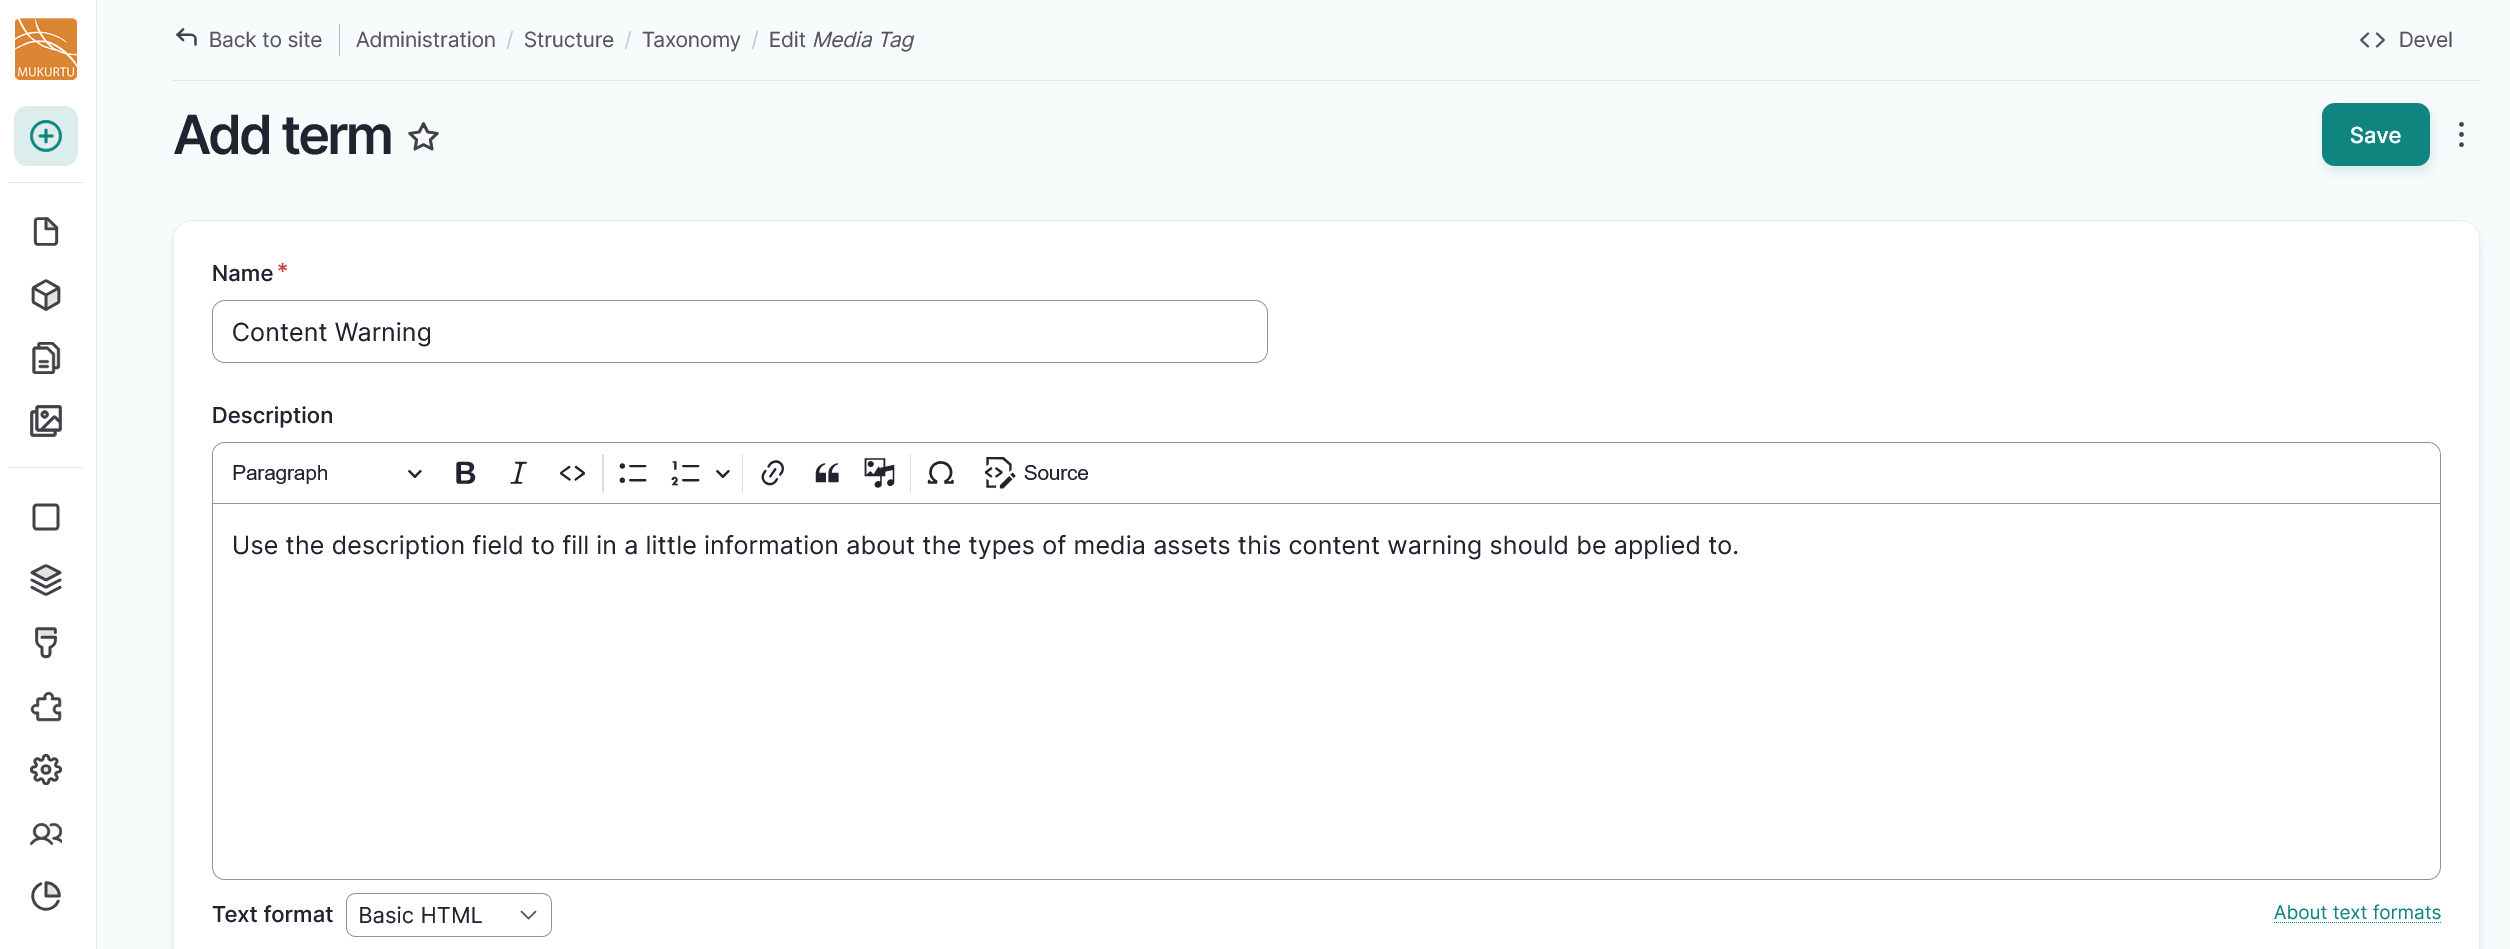
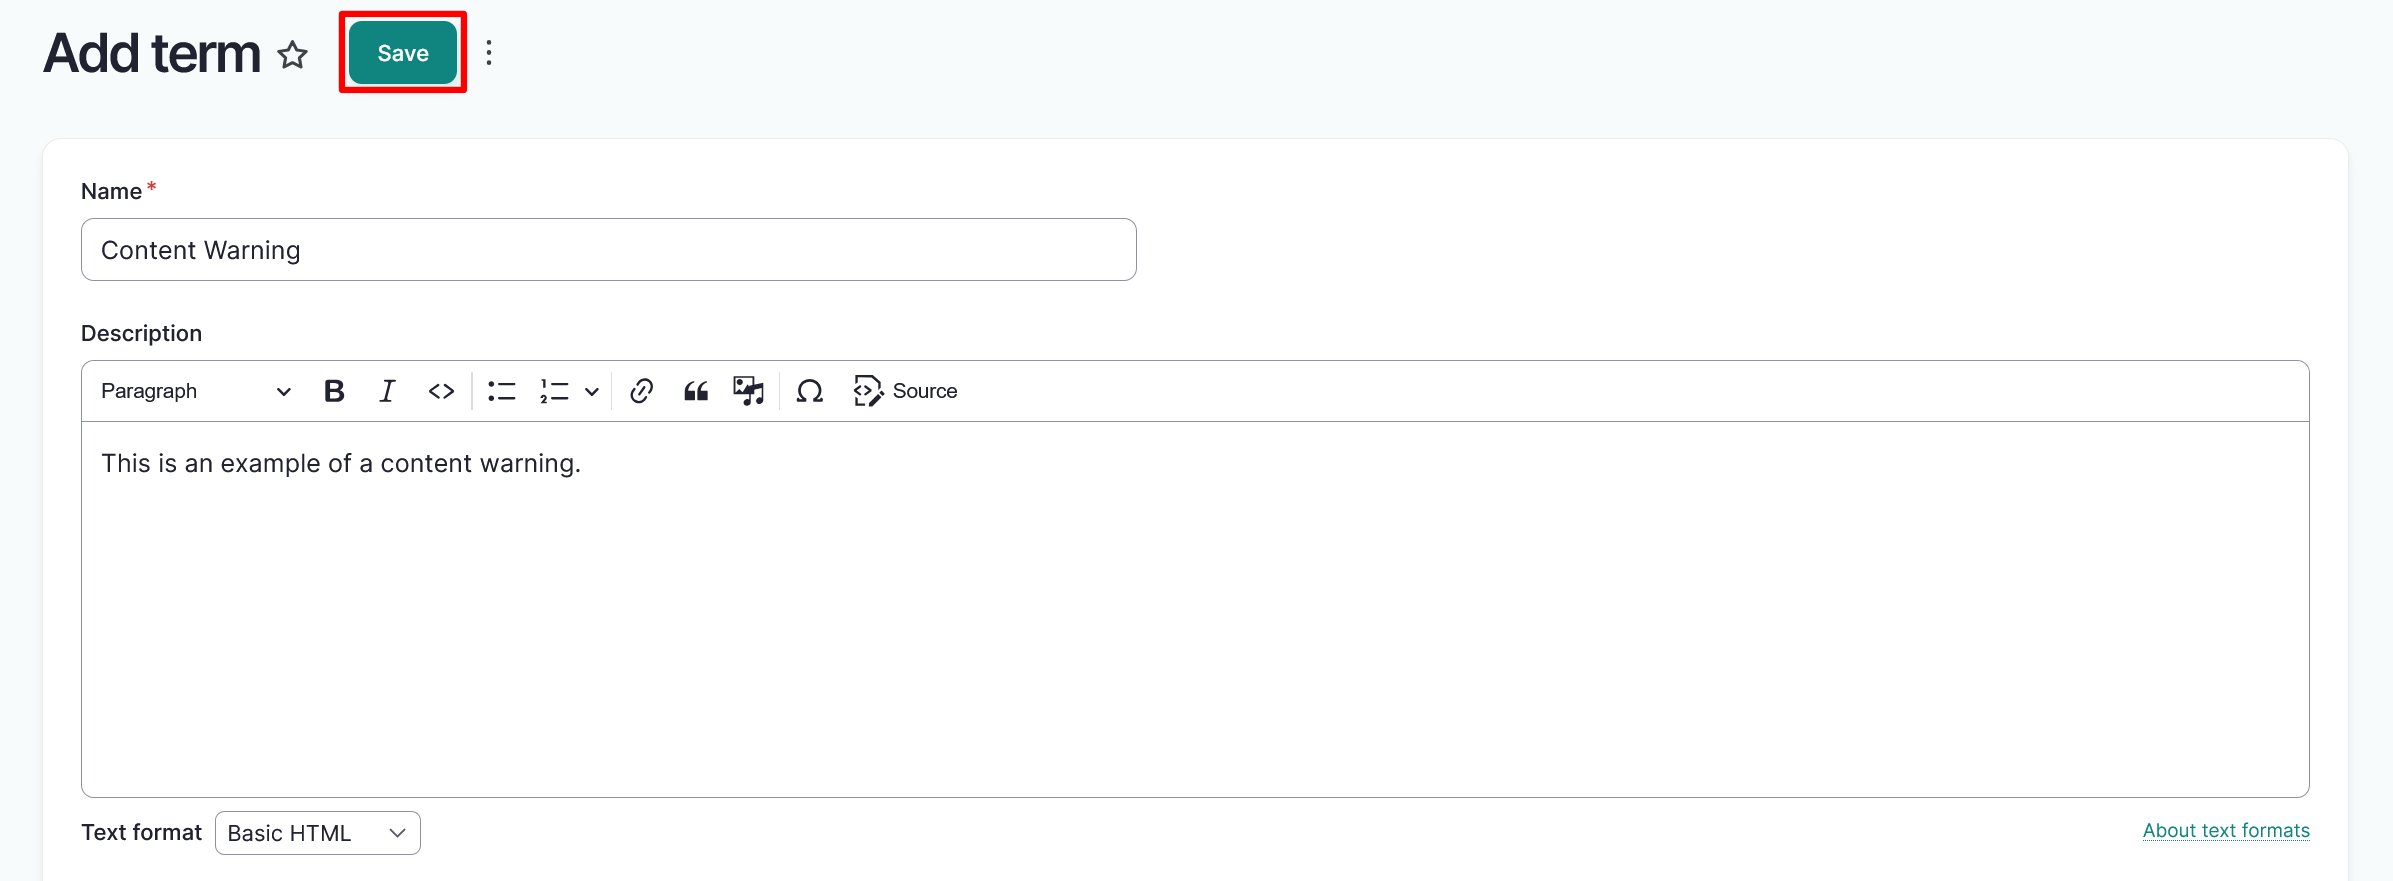
Media content warnings
Updated verbiage based on streamlined processes; updated screenshots. Still need screenshots of the dashboard.

diff --git a/docs/media/MediaContentWarnings.md b/docs/media/MediaContentWarnings.md
@@ -9,7 +9,7 @@ tags:
 
 Media content warnings are a tool used to flag potentially sensitive or triggering media assets, and allow a user to choose whether or not to interact with them before viewing or accessing the media. They can be used with all media types, and are configured to display with thumbnails, full-size media, and other display modes.
 
-When a user is presented with a media asset that has a content warning, it will be replaced with a blacked-out box and descriptive warning text. At that point, the user can choose to dismiss the warning and access the media, or leave the warning in place. This feature does not replace or bypass cultural protocols on media assets, rather it presents them the choice to access it if they want to after being made aware of its sensitive nature. This also does not affect the rest of the page contents, so if a digital heritage item includes a media asset with a content warning, that does not extend to the metadata or other media assets in that item.
+When a user is presented with a media asset that has a content warning, it will be replaced with a blacked-out box and descriptive warning text. At that point, the user can choose to dismiss the warning and access the media, or leave the warning in place. This feature does not replace or bypass cultural protocols on media assets, rather it presents users the choice to access it if they want to after being made aware of its sensitive nature. This also does not affect the rest of the page contents, so if a digital heritage item includes a media asset with a content warning, that does not extend to the metadata or other media assets in that item.
 
 ![Screenshot of taxonomy triggered warning](../_embeds/warning1.png)
 
@@ -17,13 +17,17 @@ There are two types of media content warnings: taxonomy triggered warnings and d
 
 **Taxonomy triggered warnings**
 
-Taxonomy triggered warnings are the more flexible of the two types of warnings. They are dependent on the *media tags* field that is included in all media types. You can configure as many different taxonomy warnings as necessary. Each warning is composed of the trigger media tag and a customized message.
+Taxonomy triggered warnings are the more flexible of the two types of warnings. They are dependent on the *Media tags* field that is included in all media types. You can configure as many different taxonomy warnings as necessary. Each warning is composed of the trigger media tag taxonomy term and a customized message.
 
 Some example uses of taxonomy triggered warnings include boarding or residential school materials, graphic or violent text or images, offensive or racist language and representation, or materials that may otherwise make users uncomfortable.
 
+A completed taxonomy triggered content warning can look like this:
+
+![Screenshot of a taxonomy triggered media content warning applied to a media asset in a digital heritage item](../_embeds/mediawarnings3.png)
+
 **Deceased person warnings**
 
-Deceased person warnings are a more rigid warning. They are dependent on the people field that is included in all media types, and require use of the person record [add link] tool. There is only one deceased person warning available, and the message can be customized.
+Deceased person warnings are more rigid than taxonomy triggered warnings. They are dependent on the people field that is included in all media types, and require use of Person Records. There is only one deceased person warning available, though the message can be customized.
 
 !!! tip
      Deceased person warnings are a response to requests from communities where there are degrees of restrictions on how individuals can or should interact with images or recordings of people who have passed away. If the choice is individual this can be a useful tool. However, if there is need for stricter control over access to these materials, consider managing that with cultural protocols.
@@ -32,11 +36,9 @@ Creating media content warnings is a multi-step process. These parts need to be 
 
 Sites can have many different media content warnings configured, and media assets can have more than one media content warning applied. 
 
-A completed media content warning can look like this:
+A completed deceased person record can look like this:
 
-![Screenshot of a taxonomy triggered media content warning applied to a media asset in a digital heritage item](../_embeds/mediawarnings3.png)
-
-![Screenshot of a deceased person media content warning applied to a media asset in a digital heritage item](../_embeds/placeholderscreenshot.png)
+![Screenshot of a deceased person media content warning applied to a media asset in a digital heritage item](../_embeds/personwarning1.png)
 
 To begin, navigate to your dashboard. 
 
@@ -52,28 +54,25 @@ To begin, navigate to your dashboard.
 3. Select the "Add a new term in Media Tag" button.
 4. Use the *Name* field to enter a name for your media content warning.
 5. Use the *Description* field to enter a description of the media tag for your media content warning. The description could help distuinguish between media tags or describe the type of media assets they should be applied to.
-
-    ![Screenshot of the name and description fields with sample text filled in](../_embeds/mediawarnings4.png)
-
 6. Select the "Save" button to save your media tag.
+
+    ![Screenshot of the name and description fields with sample text filled in and the save button highlighted.](../_embeds/mediawarnings4.png)
+
 7. Navigate back to your dashboard to complete creating your media content warning.
 
 ### Configure a taxonomy warning
 
-1. Under the **Media** section of the dashboard, select the **Content Warnings Settings** link or go directly to `/admin/config/mukurtu/content-warnings`
+1. From the dashboard, select the **Content Warnings Settings** link or go directly to `/admin/config/mukurtu/content-warnings`
 
     ![Screenshot of where the content warnings settings link is located in the dashboard](../_embeds/placeholderscreenshot.png)
 
 2. Navigate to the **Taxonomy Triggered Warnings** section. 
 3. Select a **Term** from the dropdown menu. Terms are media tags attached to the media that will trigger the warning. They function as the name of your media content warning. 
-
-    ![Screenshot of where the taxonomy triggered warnings link is located in the content warnings settings ](../_embeds/mediawarningsterm.png)
-
 4. Select the "Add taxonomy warning" button to add additional taxonomy warnings. 
 5. Once you have selected your term, apply warning text. In the *Warning Text* field enter the warning text you would like displayed on your media overlay. This field has a 255 character limit.
 6. Select the "Submit" button from the bottom left or top right of the screen to save your media content warning. 
 
-    ![Screenshot of where the Submit button is located in the content warnings form](../_embeds/mediawarningsterm2.png)
+    ![Screenshot of where the content warnings form with a trigger term selected and the warning text filled in.](../_embeds/mediawarningsterm2.png)
 
 To apply a taxonomy based media content warning, navigate to the [Apply a media content warning](#apply-a-media-content-warning) section of this article.
 
@@ -81,12 +80,11 @@ To apply a taxonomy based media content warning, navigate to the [Apply a media 
 
 There are several required steps to create a deceased person warning, including:
 
-- enabling the person taxonomy
 - creating a taxonomic people term
 - creating a person record
+- selecting the *Deceased* field on the person record
 
 For further information about how to create person records, visit [Create a Person Record](../person-records/PersonRecords). For further instructions on how to create deceased person media content warnings, follow the instructions below.
-
 
 ### Configure person warnings
 
@@ -104,26 +102,11 @@ For further information about how to create person records, visit [Create a Pers
 
 ### Configure person record settings
 
-1. For instructions on how to enable the person taxonomy, visit [Configure Person Record Settings](../person-records/ConfigurePersonRecord.md). The person taxonomy must be enabled before you can create people terms.
-2. Once the taxonomy is enabled, people terms can be drawn from content and media as they are created. If you have not created people terms directly from content and media, follow the instructions below to add people terms directly to your taxonomy.
-3. Navigate to your dashboard. Under the **Additional content settings** section of the dashboard, select the **Manage Taxonomies** link or go directly to `/admin/structure/taxonomy`
-
-    ![Screenshot of where the manage taxonomies link is located in the dashboard](../_embeds/placeholderscreenshot.png)
-
-3. Navigate to the **People** link. Your people taxonomy term acts as the trigger for the person warning.
-4. Select the "List terms" button.
-5. Select the "Add term" button. 
-6. Use the *Name* field to enter the name of the person.
-7. Use the *Description* field to enter a description of the person. The description could help distuinguish between people who have similar names or record other notes.
-
-    ![Screenshot of the name and description fields with sample text filled in](../_embeds/personwarnings1.png)
-
-8. Select the "Save" button to save your people tag.
-9. Navigate back to your dashboard to complete creating your media content warning.
+People terms can be drawn from content and media as they are created. If you have not created people terms directly from content and media, refer to the [Managing Taxonomies](../taxonomies/ManagingTaxonomies.md) article to add creator, contributor, or people terms directly to your taxonomies.
 
 ### Create a person record
 
-Create a person record according to the instructions here [Create a Person Record](../person-records/PersonRecords). To apply a person warning to a media asset, the *deceased* box must be checked and the person's name must be entered as a taxonomic term in the **representative terms** section. Follow the instructions to make sure your person record is configured to apply a deceased person warning.
+Create a person record according to the instructions here [Create a Person Record](../person-records/PersonRecords). To apply a person warning to a media asset, the *Deceased* field must be selected and the person's name must be entered as a taxonomic term in the **Other names** section. 
 
 ## Apply a media content warning
 
@@ -132,7 +115,7 @@ Create a person record according to the instructions here [Create a Person Recor
 
 Follow these steps to apply a media content warning to a media asset.
 
-1. Navigate to the media asset you want to apply the media content warning to through your dashboard or through editing the media asset from a content item. You can also apply a media content warning when you create a new media asset. For instructions on how to create a new media asset, visit the [Media Upload Instructions by Media Type](ByTypeMediaUpload.md) article.
+1. Navigate to your media asset. You can also apply a media content warning when you create a new media asset. For instructions on how to create a new media asset, visit the [Media Upload Instructions by Media Type](ByTypeMediaUpload.md) article.
 
     - From your dashboard, navigate to the **Media** section and select the **Manage Media** link. 
         - Under the **Operations** heading, select the "Edit" button from the dropdown button menu.
@@ -141,9 +124,8 @@ Follow these steps to apply a media content warning to a media asset.
 
         ![Screenshot of a media asset showing the location of the edit button](../_embeds/mediawarnings5.png)
 
-    - From a new media asset, follow the steps outlined in the [Media Upload Instructions by Media Type](ByTypeMediaUpload.md) article to apply media tags.
+    - From a new media asset, follow the steps outlined in the [Upload Media Assets](../media/ByTypeMediaUpload) articles to apply media tags.
 
-2. To enter a taxonomy triggered media content warning, navigate to the **Media Tags** section of your media asset. Begin entering the term for your media content warning. Your selection should display in the dropdown. 
-3. To enter a deceased person content warning, navigate to the *People* field in your media asset. Begin entering the name of the person. Your selection should display in the dropdown. 
-4. If more than one media content warning media tag, or person's name needs to be applied to the media asset, select the "Add another item" button.
-5. Select the "Save" button to save your media asset with a newly applied media content warning.
+2. To enter a taxonomy triggered media content warning, navigate to the **Media Tags** section of your media asset. As you type, existing media tags will be displayed. Select an existing media tag or enter a new term. To include additional media tags, select "Add another item".
+3. To enter a deceased person content warning, navigate to the *People* field in your media asset. As you type, names of existing people will be displayed. Select an existing person or enter a new name. To include additional people, select "Add another item".
+5. Select the "Save" button to save your media asset.
